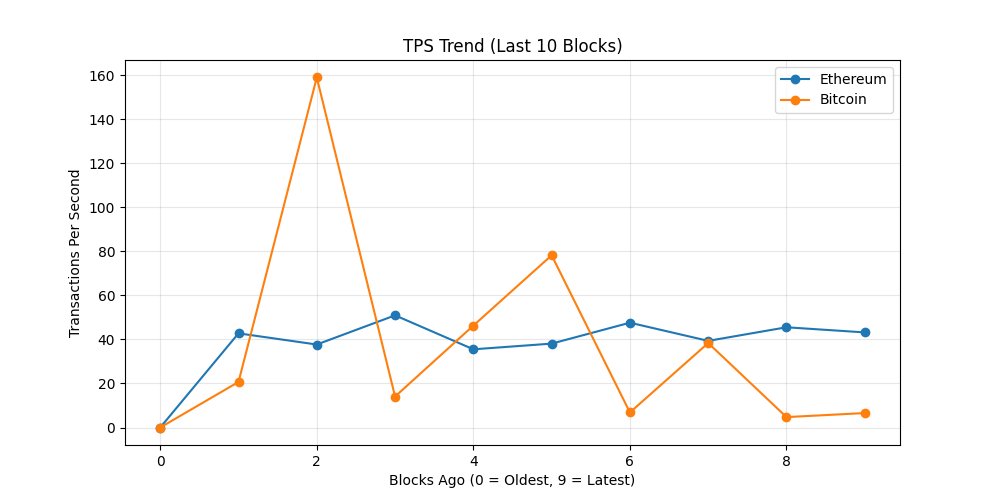
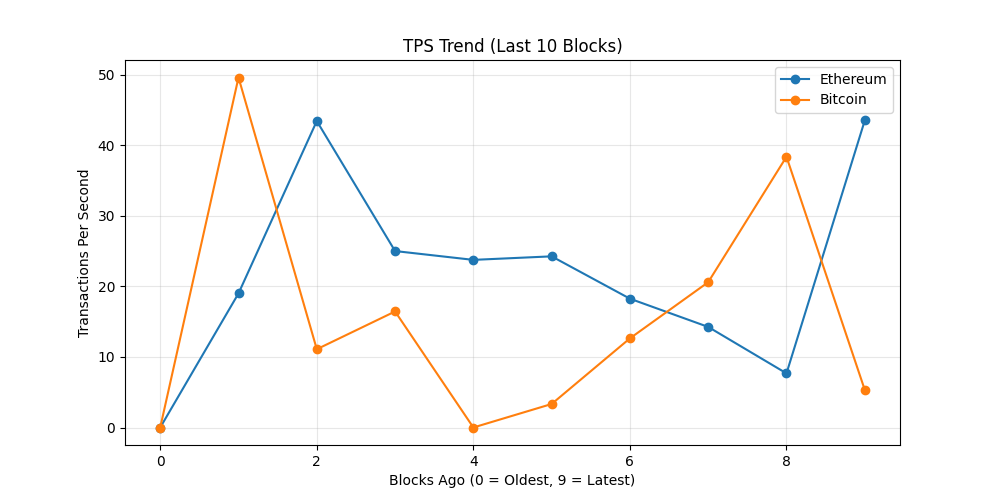
chore: update on-chain dashboard

diff --git a/README.md b/README.md
@@ -19,7 +19,7 @@ The README itself acts as the dashboard and is regenerated automatically on a 6 
 demonstrating a production-style, infrastructure-focused observability workflow rather
 than a traditional UI-driven approach.
 
-_Last updated: 2026-06-25 09:42 UTC_
+_Last updated: 2026-06-25 15:10 UTC_
 
 ## API Usage (GetBlock.io)
 - Calls used: **24**
@@ -27,8 +27,8 @@ _Last updated: 2026-06-25 09:42 UTC_
 ## Network Metrics
 | Chain | Block Height | TX Count | TPS (10 blk avg) | Block Util | Avg Fee |
 |------|-------------|----------|------------------|------------|---------|
-| Ethereum | 25393813 | 518 | 43.17 | 47.29% | 0.5 Gwei |
-| Bitcoin | 955314 | 4828 | 6.56 | 99.88% | N/A |
+| Ethereum | 25395450 | 522 | 43.5 | 94.47% | 0.9 Gwei |
+| Bitcoin | 955353 | 4775 | 5.33 | 99.8% | N/A |
 
 ## Visuals
 ### Transactions Trend
@@ -43,11 +43,11 @@ _Last updated: 2026-06-25 09:42 UTC_
 ## Whale Alerts (latest block)
 - Transaction hashes are truncated for readability.
 - Full hashes are available in `dashboards/metrics.json`
-- Bitcoin | 129.12 BTC | `ebba57948a33…`
-- Bitcoin | 121.58 BTC | `bfe83b611d71…`
-- Bitcoin | 130.0 BTC | `38bfebaeadc9…`
-- Bitcoin | 1810.27 BTC | `4b574899ecce…`
-- Bitcoin | 1915.02 BTC | `10f12df024c8…`
+- Bitcoin | 131.0 BTC | `e09ebd8b719d…`
+- Bitcoin | 110.0 BTC | `02ec85acbae2…`
+- Bitcoin | 497.24 BTC | `1b6d04c4993b…`
+- Bitcoin | 131.79 BTC | `4eeb70692a83…`
+- Bitcoin | 277.15 BTC | `748025b541f3…`
 
 ## Run locally
 
